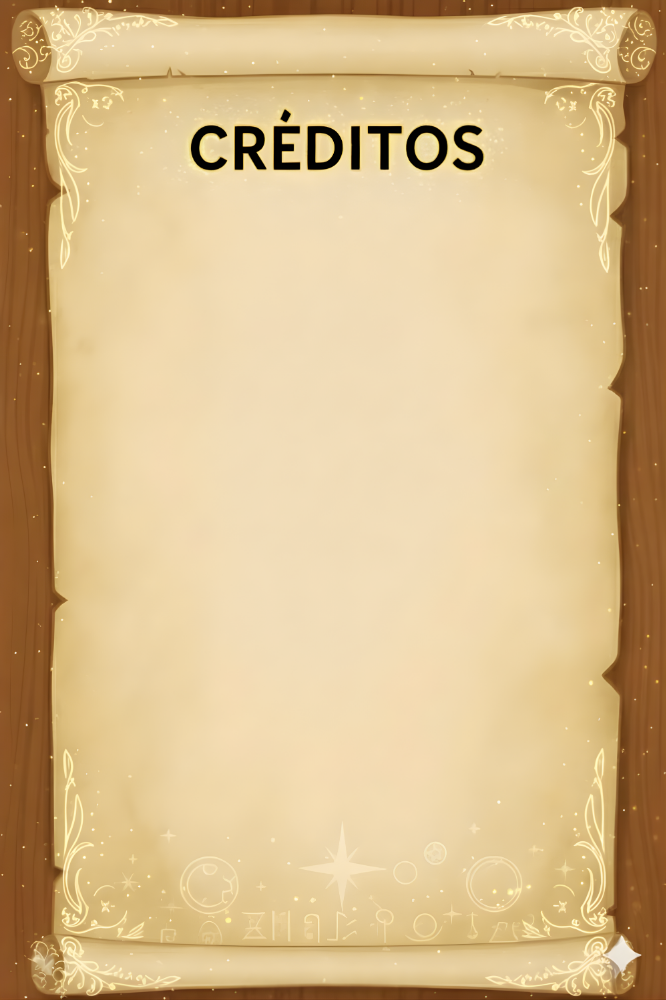
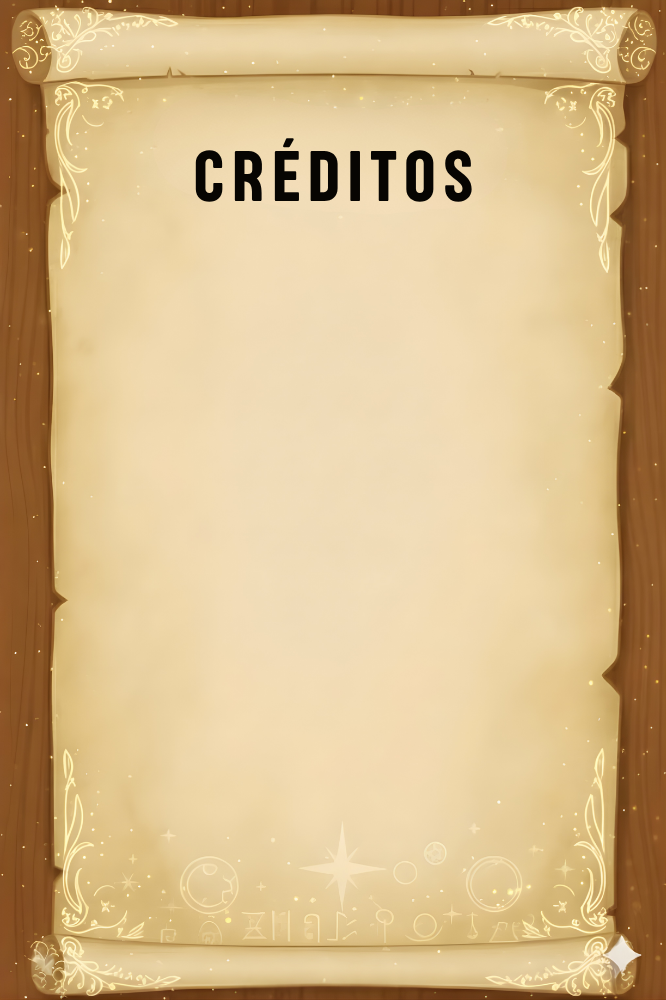
mudanças em opções e Créditos

Changed region(s): [[0.2703, 0.093, 0.7207, 0.217]]

diff --git a/index.html b/index.html
@@ -125,6 +125,74 @@
       align-items: center;
     }
 
+    #modalOpcoes #fecharOpcoes {
+      position: absolute;
+      left: 820px;
+      bottom: 100px;
+      width: 250px;
+      height: 95px;
+      font-size: 28px;
+      padding: 10px;
+      border-radius: 18px;
+      z-index: 10;
+    }
+
+/* ---- FUNDO DO MODAL DE OPÇÕES COM IMAGEM ---- */
+#modalOpcoes .caixa {
+  background: url("images/Opcoes.png") center/cover no-repeat !important;
+  background-color: transparent !important;
+
+  width: 1100px;
+  height: 650px;
+
+  border: none !important;
+  box-shadow: none !important;
+
+  padding-top: 180px;
+  padding-left: 80px;
+  padding-right: 80px;
+}
+
+/* texto e controles na frente */
+#modalOpcoes h2,
+#modalOpcoes .linha,
+#modalOpcoes button {
+  position: relative;
+  z-index: 5;
+}
+
+    /* ---- FUNDO DO MODAL DE CRÉDITOS COM IMAGEM MAIOR ---- */
+#modalCreditos .caixa {
+  background: url("images/Creditos.png") center/cover no-repeat !important;
+  background-color: transparent !important;
+  border: none !important;
+  box-shadow: none !important;
+
+  width: 500px;        /* Aumenta a largura */
+  height:530px;      /* Aumenta a altura */
+  padding-top: 280px;  /* Ajusta o texto para ficar dentro da arte */
+  padding-bottom: 120px;
+}
+
+
+/* texto na frente da imagem */
+#modalCreditos .conteudo-creditos {
+  margin-top: -100px;
+  text-align: center;
+  font-size: 2rem;
+  color: #000;
+  z-index: 5;
+  position: relative;
+}
+
+#modalCreditos #fecharCreditos {
+  margin-top: 40px;
+  z-index: 5;
+  position: relative;
+}
+
+
+
     .modal h2 {
       font-size: 3rem;
       margin-bottom: 25px;
@@ -134,18 +202,46 @@
       text-shadow: 2px 2px rgb(255, 255, 255);
     }
 
-    .linha {
-      margin: 12px 0;
-      display: flex;
-      align-items: center;
-      gap: 12px;
-      width: 100%;
-      max-width: 480px;
-    }
+    /* BLOCO .linha CONTROLÁVEL EM PIXELS */
+.linha {
+  position: relative;
+  height: 40px;          /* altura da linha */
+  margin: 20px 0;
+  display: flex;
+  align-items: center;   /* centraliza verticalmente */
+}
 
-    .linha label { width: 120px; }
-    .linha input[type="range"] { flex: 1; }
-    .linha span { width: 60px; text-align: right; font-weight: bold; }
+/* TEXTO (Som / Brilho) */
+.linha label {
+  position: absolute;
+  left: -500px;            /* distância da borda esquerda */
+  top: 200px;
+  transform: translateY(-50%);
+  width: 180px;          /* largura da área do texto */
+  font-size: 40px;       /* tamanho do texto */
+  font-weight: bold;
+  color: #000;
+}
+
+/* SLIDER */
+.linha input[type="range"] {
+  position: absolute;
+  left: -350px;           /* posição do slider */
+  width: 800px;          /* largura do slider */
+  height: 22px;          /* altura do slider */
+  top: 195px;
+}
+
+/* TEXTO DO VALOR (ex: 70%) */
+.linha span {
+  position: absolute;
+  left: 475px;           /* posição do valor */
+  font-size: 26px;       /* tamanho do número */
+  font-weight: bold;
+  color: #000;
+  top: 190px;
+}
+
   </style>
 </head>
 
@@ -167,7 +263,6 @@
   <!-- MODAL OPÇÕES -->
   <div class="modal" id="modalOpcoes">
     <div class="caixa">
-      <h2>Opções</h2>
 
       <div class="linha">
         <label>Som</label>
@@ -186,17 +281,23 @@
   </div>
 
   <!-- MODAL CRÉDITOS -->
-  <div class="modal" id="modalCreditos">
-    <div class="caixa">
-      <h2>Créditos</h2>
+<div class="modal" id="modalCreditos">
+  <div class="caixa">
 
-      <p><b>Gestora:</b> Letícia Veras</p>
-      <p><b>Design:</b> Larinete Santana</p>
-      <p><b>Programadores:</b> Caick Ruan, Pedro Sérgio</p>
-
-      <button class="btn-sec" id="fecharCreditos">Fechar</button>
+    <div class="conteudo-creditos">
+      <b><h3>Gestora:</h3></b>
+      <p>Letícia Veras</p>
+      <p><b><h3>Design:</h3></b></p>
+      <p>Larinete Xavier</p>
+      <p><b><h3>Programadores:</h3></b></p>
+      <p>Caick Ruan, Pedro Sérgio</p>
     </div>
+
+    <button class="btn-sec" id="fecharCreditos">Fechar</button>
+
   </div>
+</div>
+
 
   <!-- Controles da página -->
   <script>
